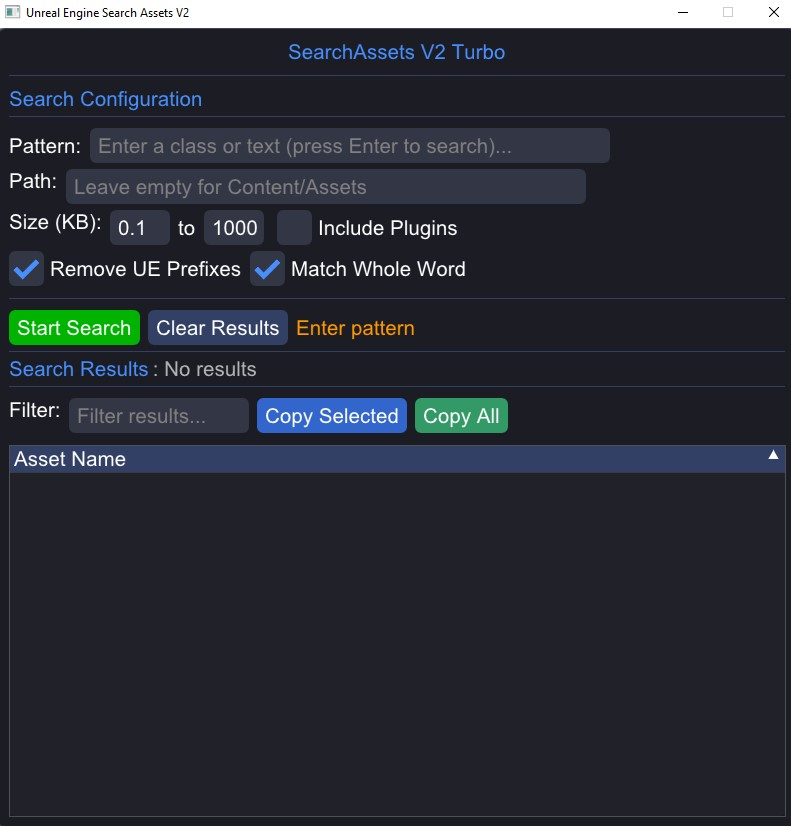
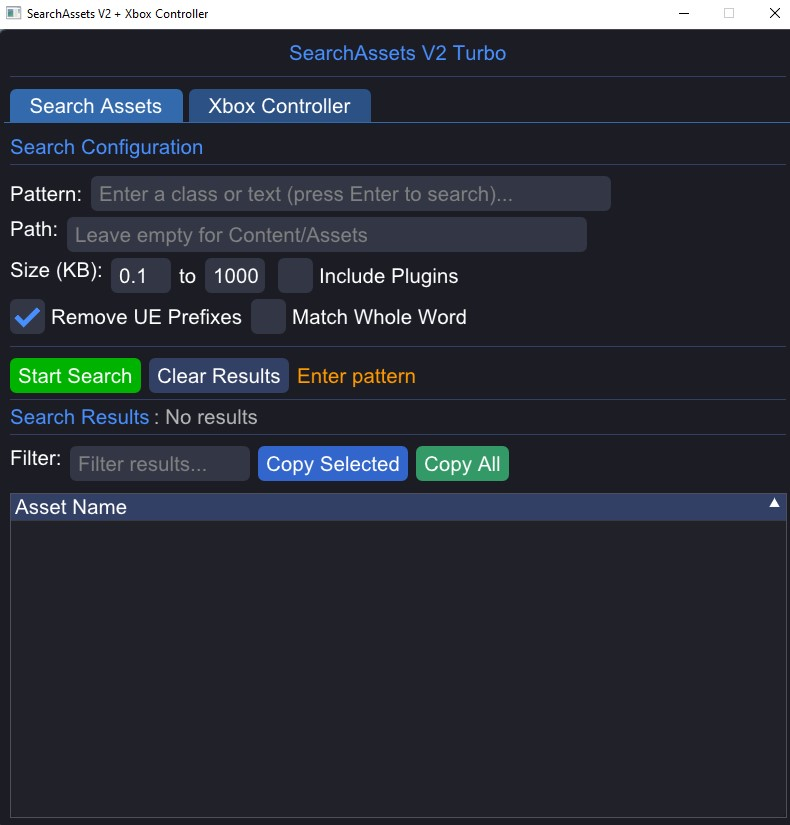
Update readme

diff --git a/README.md b/README.md
@@ -1,26 +1,55 @@
 # SearchAssetsV2 Turbo with ImGui
 
-GUI application for searching assets in Unreal Engine projects, built with ImGui and OpenGL.
+GUI application for searching assets in Unreal Engine projects, with an integrated virtual Xbox 360 controller emulator. Built with ImGui and OpenGL.
+
+> **Note:** This project was designed by me but entirely implemented with [Claude AI] under my supervision (i'm lazy).
 
 ![SearchAssets ImGui Interface](img/Screenshot.jpg)
+![SearchAssets ImGui Interface](img/Screenshot2.jpg)
+---
 
 ## Features
 
-✅ **Modern GUI Interface** - ImGui-based responsive UI  
-✅ **Perfect Windows 11 Compatibility** - No terminal size conflicts  
-✅ **Windowed Locked Mode** - Fixed size window, cannot be moved or resized  
-✅ **Real-time Search Results** - Live table updates  
-✅ **Advanced Filtering** - Filter results as you type  
-✅ **Copy to Clipboard** - Individual or bulk copy operations  
-✅ **Unreal Prefix Removal** - Automatic A/U/F/S/T/E/I prefix handling  
+### Search Assets tab
+✅ **Modern GUI Interface** - ImGui-based responsive UI
+✅ **Windowed Locked Mode** - Window auto-resizes per tab, cannot be manually resized
+✅ **Real-time Search Results** - Live table updates during multithreaded search
+✅ **Advanced Filtering** - Filter results as you type
+✅ **Copy to Clipboard** - Individual or bulk copy operations
+✅ **Unreal Prefix Removal** - Automatic A/U/F/S/T/E/I prefix handling
 ✅ **Plugin Search Support** - Search through plugin Content directories
+
+### Xbox Controller tab
+✅ **4 Virtual Xbox 360 Controllers** - Simultaneously connect up to 4 pads (in unreal you can use max 3 + keyboard)
+✅ **Full Button/Axis Support** - Triggers, bumpers, sticks, ABXY, D-Pad, Back/Start
+✅ **Per-player panels** - 2×2 grid layout, one panel per controller
+✅ **Driver status banner** - Warning shown if ViGEmBus is not installed
+
+---
+
+## Xbox Controller tab — Requirements
+
+The virtual controller feature relies on **ViGEmBus**, a Windows kernel-mode driver that exposes a virtual gamepad bus.
+
+### Install ViGEmBus driver
+
+Download and install the latest release from the official repository:
+
+**[https://github.com/nefarius/ViGEmBus/releases](https://github.com/nefarius/ViGEmBus/releases)**
+
+> **Windows 11 / Memory Integrity (HVCI):** Use **v1.22 or newer**, which is WHQL-signed and works with Memory Integrity enabled. Older unsigned versions will be blocked.
+
+After installation, the virtual controllers appear in **Device Manager** under `Nefarius Virtual Gamepad Emulation Bus`.
+
+---
 
 ## Build Requirements
 
 - **CMake 3.20+**
-- **C++20 compatible compiler**
+- **C++20 compatible compiler** (MSVC 2022 recommended on Windows)
 - **OpenGL 3.3+** support
-- **Git** (for dependency fetching)
+- **Git** (for automatic dependency fetching via CMake FetchContent)
+- **Windows only** for the Xbox Controller tab (ViGEmClient is Windows-specific)
 
 ## Building
 
@@ -32,34 +61,63 @@ cmake .. -DCMAKE_BUILD_TYPE=Release
 cmake --build . --config Release
 ```
 
+All dependencies are downloaded automatically at configure time — no manual setup needed.
+
+---
+
 ## Usage
 
-1. **Launch**: Run `SearchAssetsImGui.exe`
-2. **Start Search**: Click "Start Search" or press F5
-3. **Filter Results**: Type in the filter box to narrow results
-4. **Copy Results**: Click items to select, then "Copy Selected"
+### Search Assets
+1. Launch `SearchAssetsImGui.exe`
+2. Enter a class or asset name in the **Pattern** field
+3. Click **Start Search** or press **F5**
+4. Filter results in real time with the **Filter** box
+5. Double-click or use **Copy Selected** / **Copy All** to copy to clipboard
+
+### Xbox Controller
+1. Switch to the **Xbox Controller** tab (window resizes automatically)
+2. Make sure the **ViGEmBus** driver is installed (see above)
+3. Click **Connect** on any panel to activate that virtual controller
+4. Click buttons/triggers/sticks to send input — detectable by any game or DirectInput app
+
+---
 
 ## Architecture
 
-- **SearchEngine.cpp/h**: Multithreaded search engine
-- **SearchAssetsGUI.cpp/h**: ImGui interface implementation
-- **main.cpp**: OpenGL/GLFW setup and main loop
+| File | Description |
+|------|-------------|
+| `SearchEngine.h/cpp` | Multithreaded asset search with regex, file size filtering, plugin support |
+| `SearchAssetsGUI.h/cpp` | Main ImGui interface, tab bar, window resizing logic |
+| `ControllerEmulator.h/cpp` | ViGEmClient C++ wrapper — manages up to 4 virtual Xbox 360 targets |
+| `ControllerPanel.h/cpp` | ImGui widget for one controller — draws with `ImDrawList`, handles input |
+| `main.cpp` | GLFW/OpenGL setup, main render loop |
 
-## Dependencies (Auto-downloaded)
+---
 
-- **GLFW**: Window management
-- **ImGui**: Immediate mode GUI
-- **OpenGL**: Graphics rendering
+## Dependencies (auto-downloaded via CMake FetchContent)
+
+| Library | Version | Purpose | Link |
+|---------|---------|---------|------|
+| **GLFW** | 3.3.8 | Window management & OpenGL context | [glfw.org](https://www.glfw.org) |
+| **Dear ImGui** | v1.90.1 | Immediate-mode GUI | [github.com/ocornut/imgui](https://github.com/ocornut/imgui) |
+| **ViGEmClient** | master | C API for ViGEmBus virtual controllers | [github.com/nefarius/ViGEmClient](https://github.com/nefarius/ViGEmClient) |
+| **OpenGL** | 3.3+ | Graphics rendering (system-provided) | — |
+
+> **ViGEmBus driver** (separate install, not bundled): [github.com/nefarius/ViGEmBus](https://github.com/nefarius/ViGEmBus)
+
+---
 
 ## Project Structure
 
 ```
 SearchAssets ImGui/
 ├── src/
-│   ├── SearchEngine.h/cpp     # Core search logic
-│   ├── SearchAssetsGUI.h/cpp  # ImGui interface
-│   └── main.cpp               # Application entry point
-├── build/                     # Build output
-├── CMakeLists.txt            # Build configuration
-└── README.md                 # This file
+│   ├── SearchEngine.h/cpp        # Core multithreaded search logic
+│   ├── SearchAssetsGUI.h/cpp     # ImGui interface + tab management
+│   ├── ControllerEmulator.h/cpp  # ViGEmClient wrapper (virtual Xbox 360)
+│   ├── ControllerPanel.h/cpp     # Per-controller ImGui widget
+│   └── main.cpp                  # Application entry point
+├── build/                        # Build output (git-ignored)
+├── CMakeLists.txt                # Build configuration
+└── README.md                     # This file
 ```